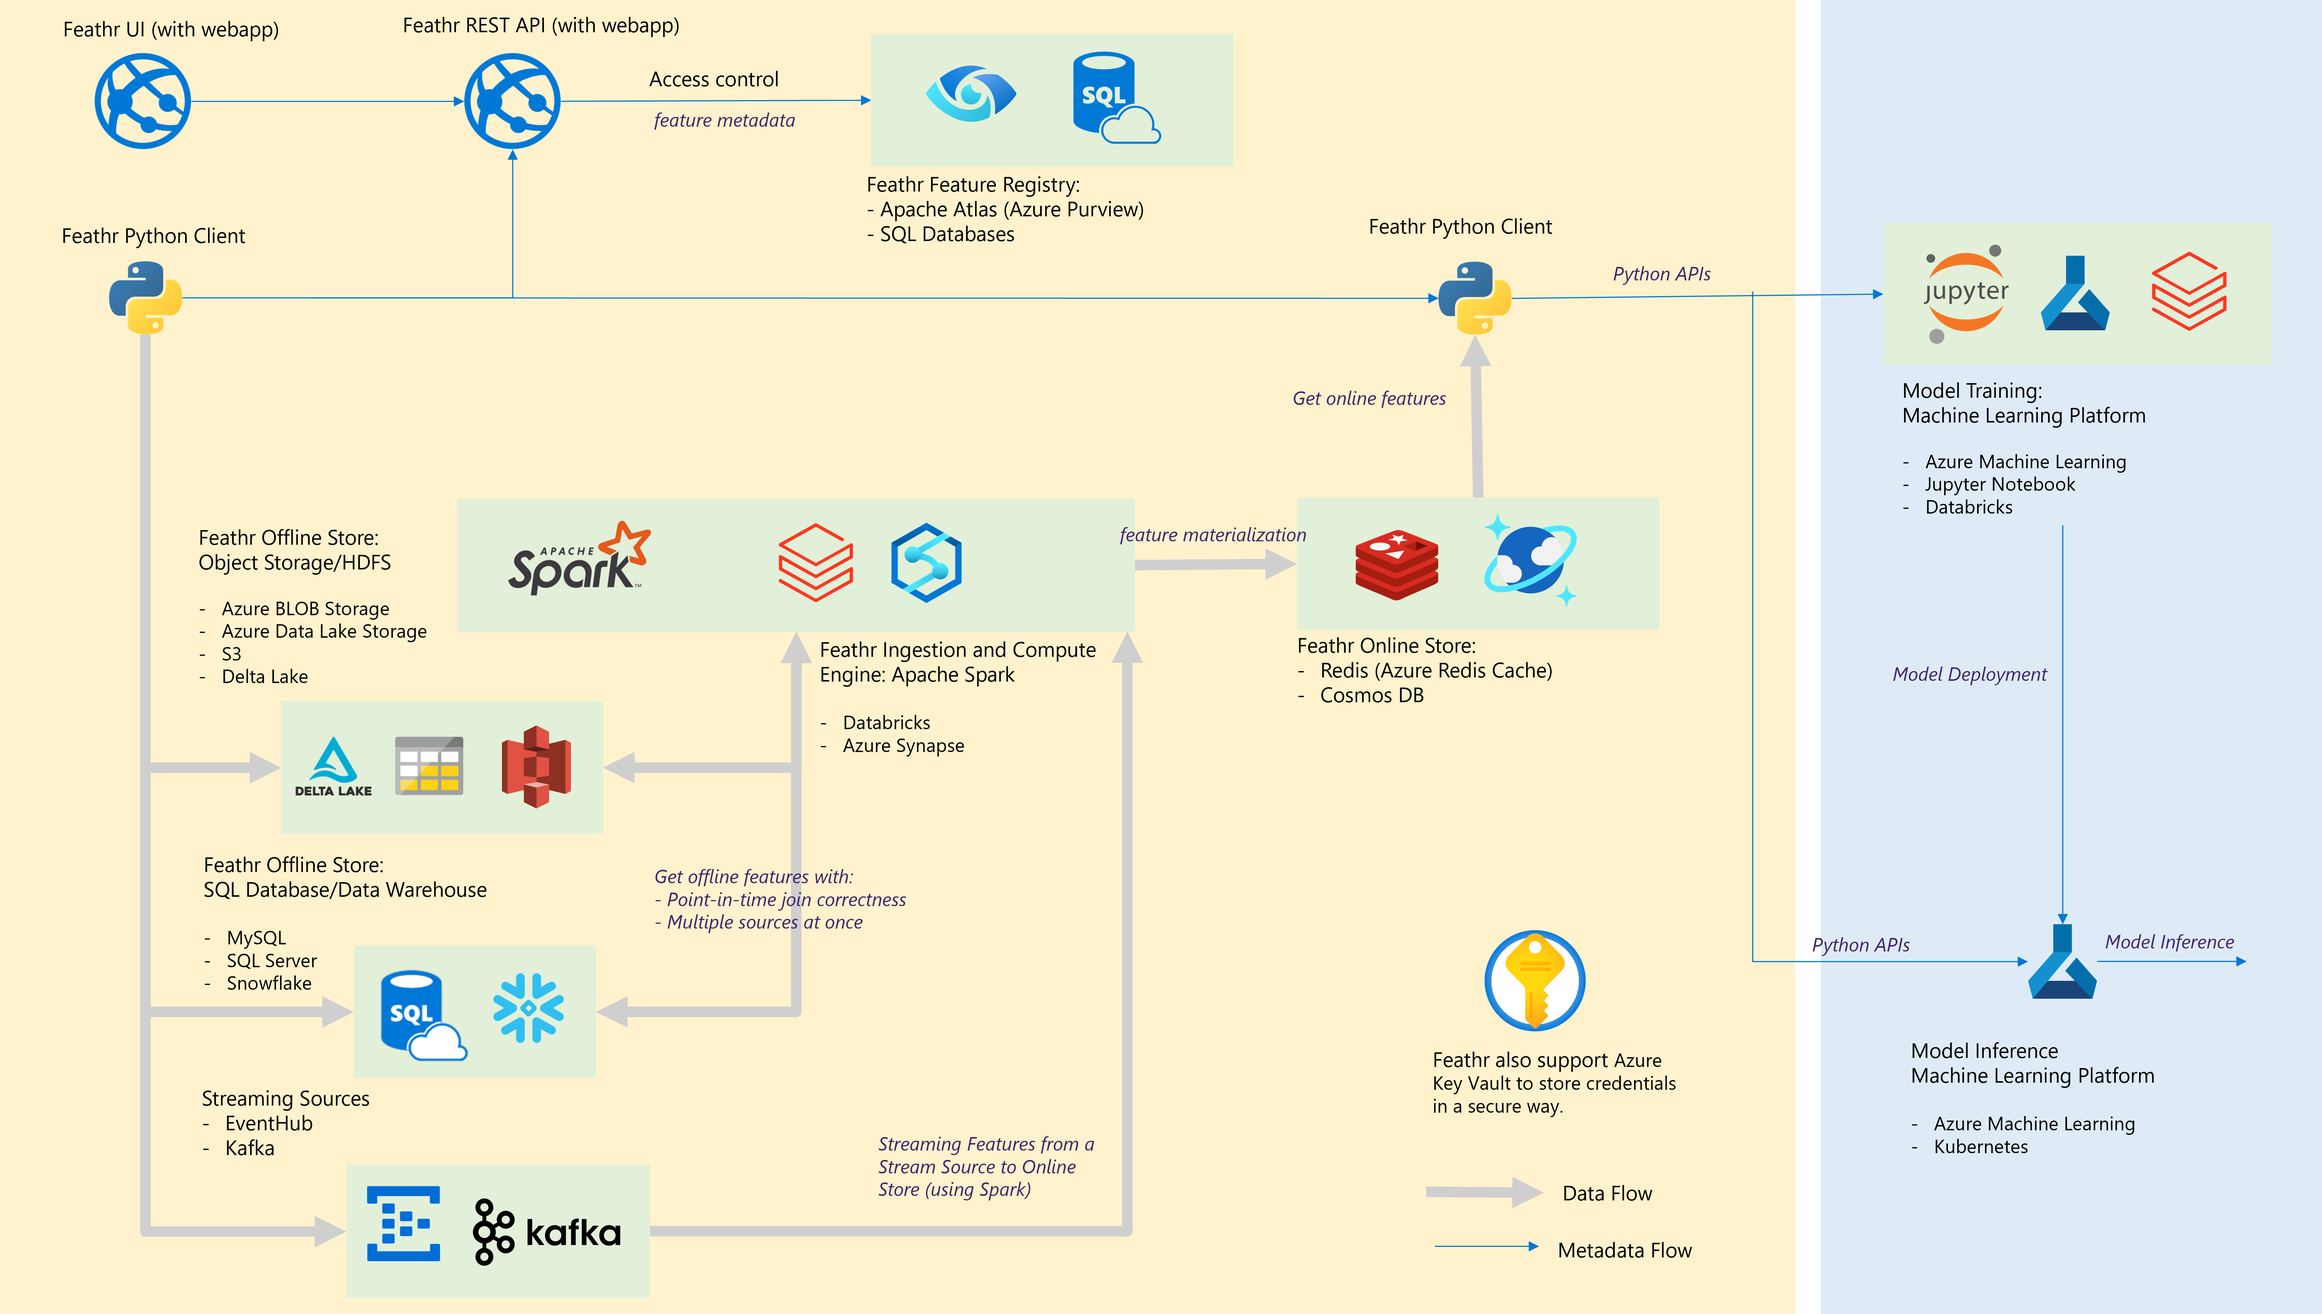
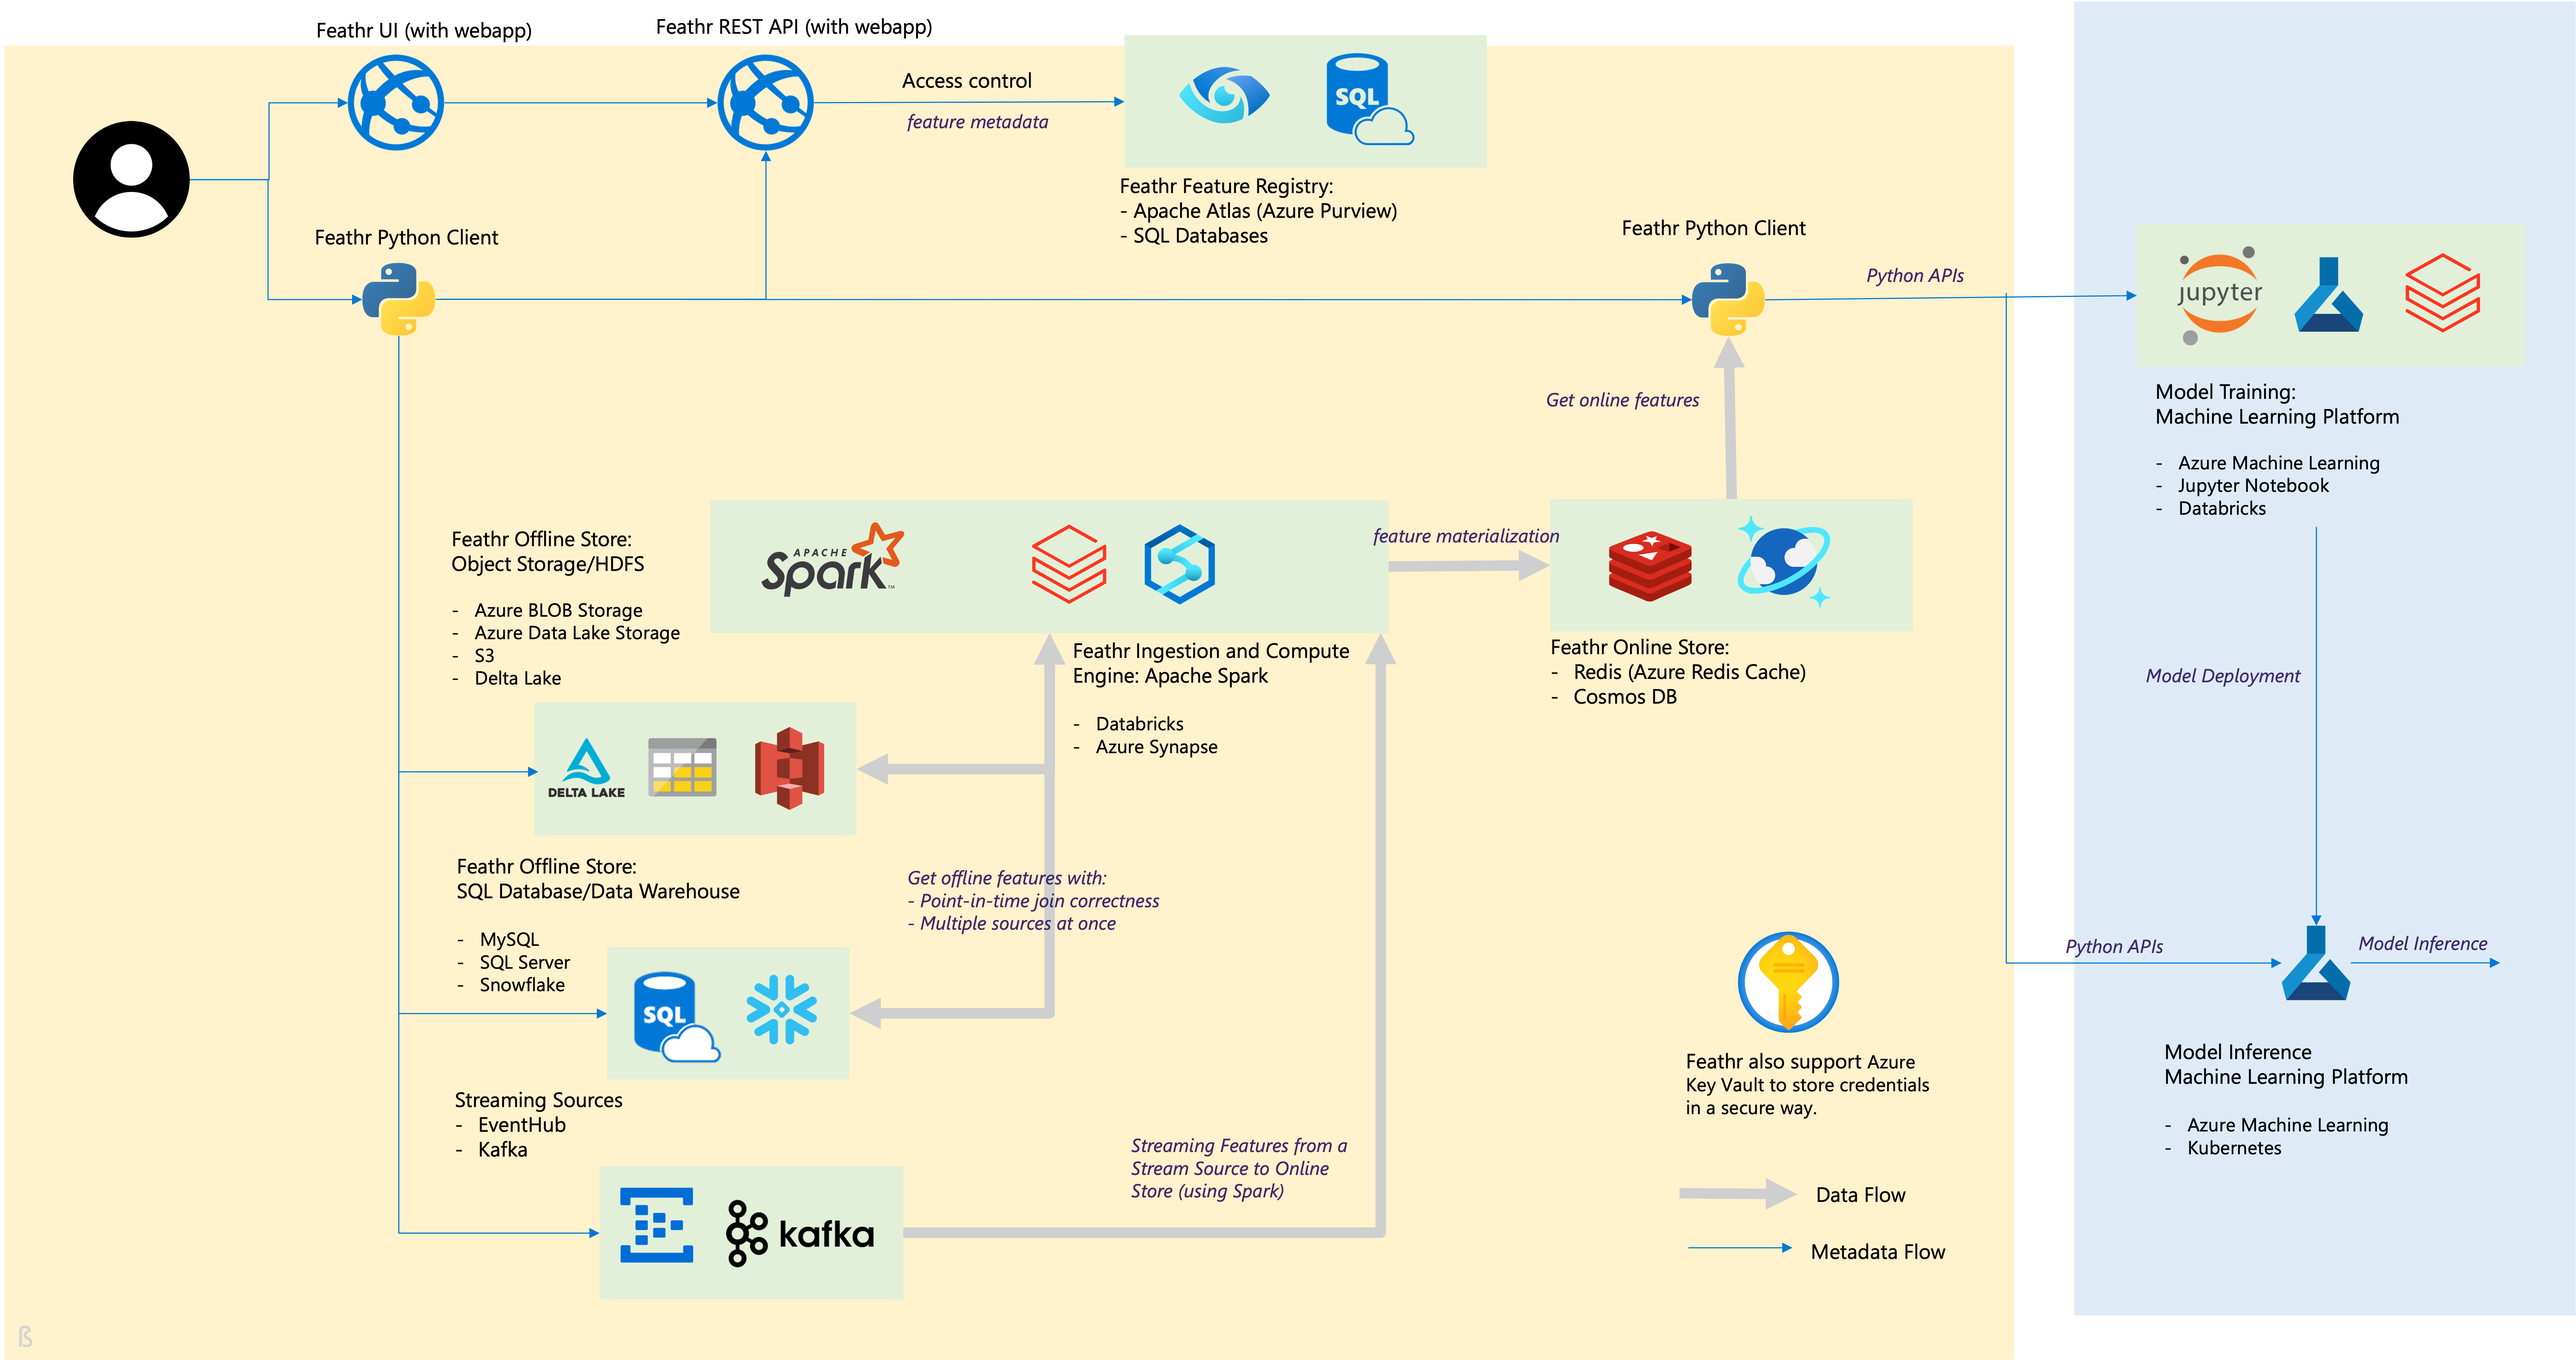
resolve comments

diff --git a/docs/concepts/feature-registry.md b/docs/concepts/feature-registry.md
@@ -10,7 +10,7 @@ Feature registry is an important component of a feature store. This documentatio
 
 ## Introduction
 
-Feathr UI and Feathr Registry are two optional components to use Feathr, but
+Feathr UI and Feathr Registry are two optional components to use Feathr, but usually they are recommended to be provisioned so that Feathr users can explore features that are already registered in the registry, and reuse those features.
 
 ## Deployment
 
@@ -38,15 +38,13 @@ Note that if you choose to enable Role-based Access Control (RBAC), you still ne
 
 ## Architecture
 
+The overall Feathr architecture is like below. The registry and UI part is illustrated on the top where there are three components for Feathr feature registry:
+
 ![Architecture Diagram](../images/architecture.png)
 
-The architecture is as above. More specifically, there are three components for Feathr feature registry:
-
-- Feathr UI, a react based application
-- Feathr REST API, which provides abstraction for different registry providers, as well as role-based access control (RBAC)
+- Feathr UI, a React based application
+- Feathr REST API, which provides abstraction for different registry providers, as well as role-based access control (RBAC). Both the Feathr UI and the Feathr Python Client interact with the Feathr REST API service. The REST API service then detect if the user has the right access, and route the corresponding request to the registry providers.
 - Different feature registry backends. Currently only Azure Purview and SQL based registry are supported, but more registry providers from the community are welcome.
-
-Both the Feathr UI and the Feathr Python Client interact with the Feathr REST API service. The REST API service then detect if the user has the right access, and route the corresponding request to the registry providers.
 
 ## Accessing Registry in Feathr Python Client
 
@@ -60,9 +58,9 @@ feature_registry:
   api_endpoint: "https://feathr-sql-registry.azurewebsites.net/api/v1"
 ```
 
-### Register and Listing Features
+### Register and List Features
 
-You can register your features in the centralized registry and share it with other team members who want to consume those features and for further use. You can also use `list_registered_features` to verify if they have been registered successfully.
+You can register your features in the centralized registry and share the corresponding project with other team members who want to consume those features and for further use. You can also use `list_registered_features` to verify if they have been registered successfully.
 
 ```python
 client.build_features(anchor_list=[agg_anchor, request_anchor], derived_feature_list=derived_feature_list)
@@ -72,7 +70,7 @@ all_features = client.list_registered_features(project_name=client.project_name)
 
 ### Reuse Features from Existing Registry
 
-For feature consumers, they can reuse existing features from the registry. The whole project can be retrieved to local environment by calling this API `client.get_features_from_registry` with a project name. This encourage feature reuse across organizations. For example, end users of a feature just need to read all feature definitions from the existing projects, then use a few features from the projects and join those features with a new dataset you have.
+The feature producers can just let the feature consumers know which features exist so the feature consumers can reuse them. For feature consumers, they can reuse existing features from the registry. The whole project can be retrieved to local environment by calling this API `client.get_features_from_registry` with a project name. This encourage feature reuse across organizations. For example, end users of a feature just need to read all feature definitions from the existing projects, then use a few features from the projects and join those features with a new dataset you have.
 
 For example, in the [product recommendation demo notebook](./../samples/product_recommendation_demo.ipynb), some other team members have already defined a few features, such as `feature_user_gift_card_balance` and `feature_user_has_valid_credit_card`. If we want to reuse those features for anti-abuse purpose in a new dataset, what you can do is like this, i.e. just call `get_features_from_registry` to get the features, then put the features you want to query to the anti-abuse dataset you have.
 

diff --git a/docs/how-to-guides/azure-deployment-arm.md b/docs/how-to-guides/azure-deployment-arm.md
@@ -77,7 +77,7 @@ Click the button below to deploy a minimal set of Feathr resources. This is not 
 
 ### 3. Grant Key Vault and Synapse access to selected users (Optional)
 
-YOu will need to assign the right permission to users in order for them to access Azure key vault, permission to access the Storage Blob as a Contributor, and permission to submit jobs to Synapse cluster.
+You will need to assign the right permission to users in order for them to access Azure key vault, permission to access the Storage Blob as a Contributor, and permission to submit jobs to Synapse cluster.
 
 Skip this step if you have already given yourself the access. Otherwise, run the following lines of command in the [Cloud Shell](https://shell.azure.com/bash).
 
